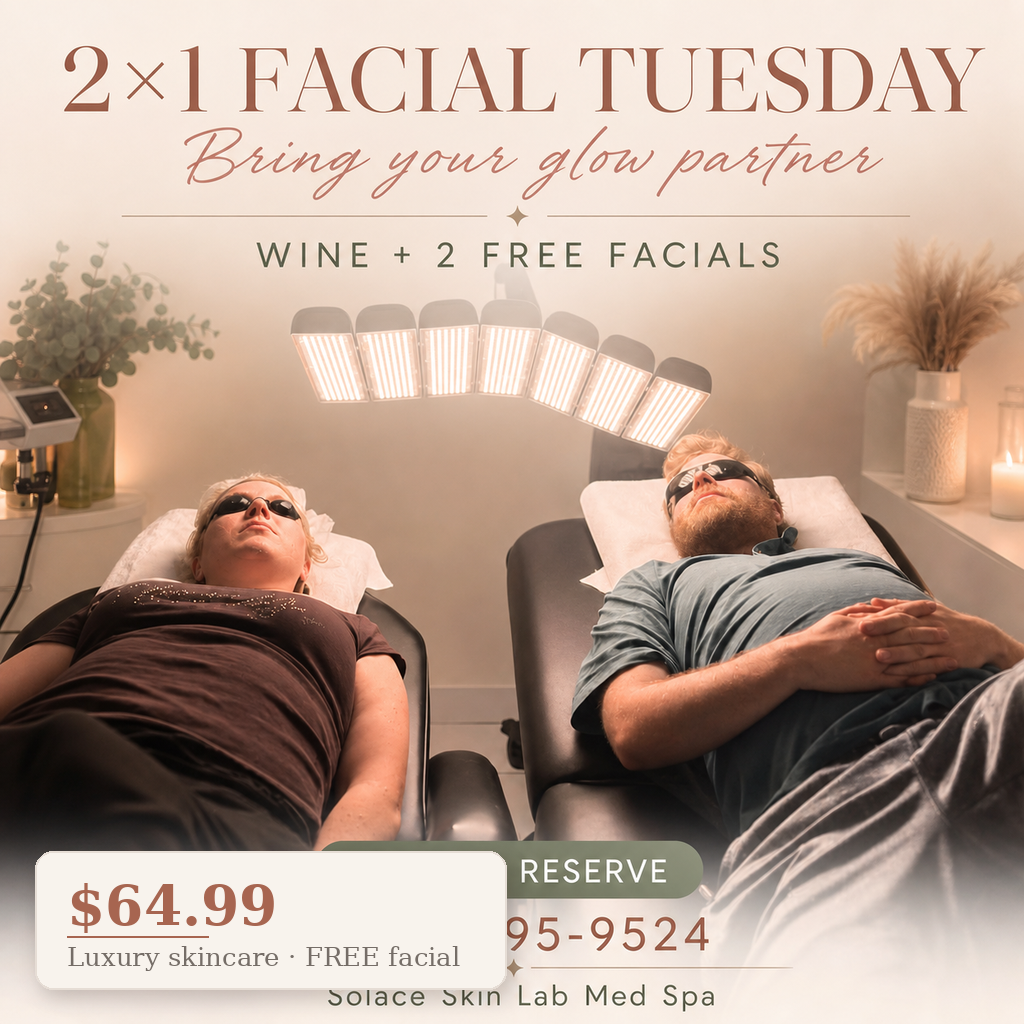
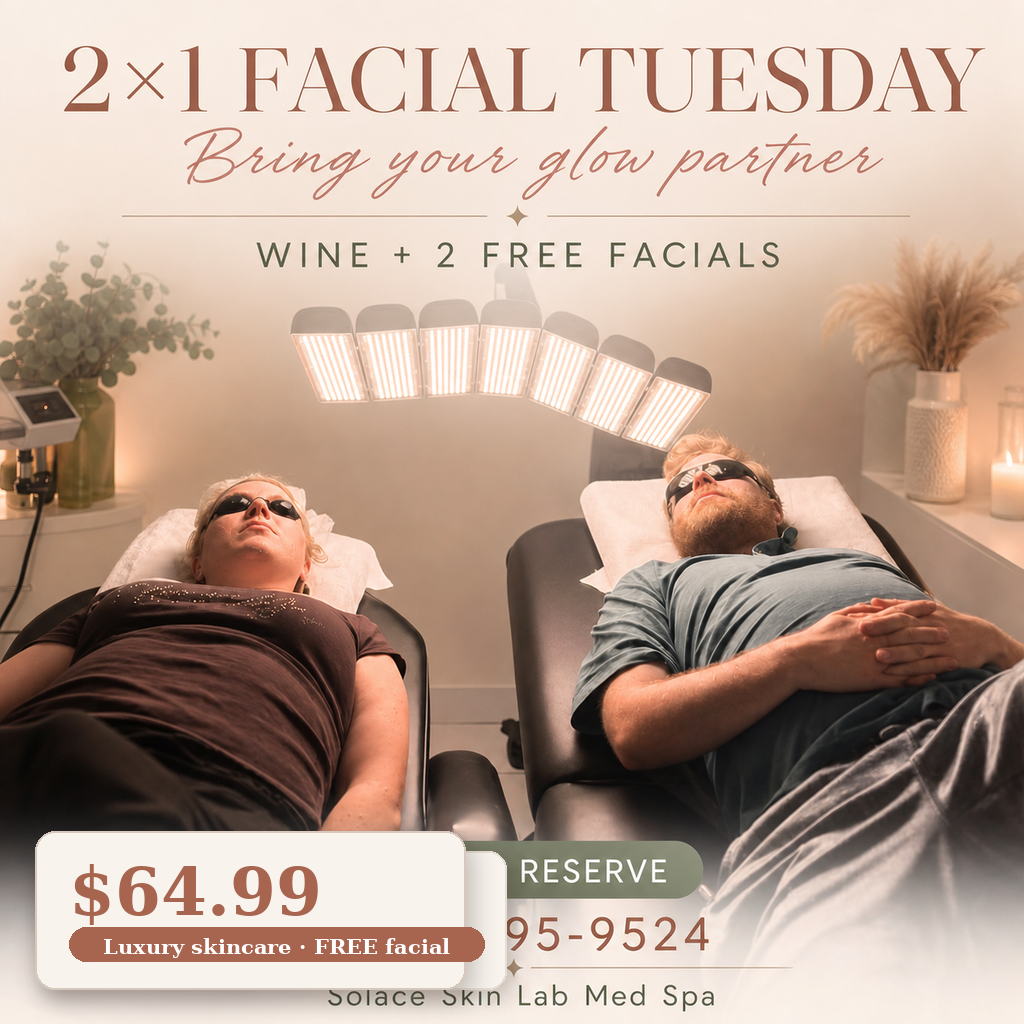
fix(solace-creatives): $64.99 badge high-contrast terracotta pill, no text overlap (days 5/12/19/26/28)

Changed region(s): [[0.0312, 0.8125, 0.4688, 1.0]]

diff --git a/add_price_badge.py b/add_price_badge.py
@@ -1,12 +1,11 @@
 #!/usr/bin/env python3
 """Composite an elegant on-brand $64.99 price badge onto selected Solace August V2 creatives.
 
-Target days: 5, 12, 19, 26 (Tuesday 2x1 promo) + 28 (Facial + LED).
-Badge text:
-  $64.99
-  Luxury skincare · FREE facial
-Placed bottom-left, ivory translucent card, rose (#a76550) accent rule, serif type.
-Does NOT cover faces or top text. Preserves original pixels elsewhere.
+Days: 5, 12, 19, 26 (Tuesday 2x1 promo) + 28 (Facial + LED).
+Badge:
+  $64.99            (rose #a76550, bold serif)
+  [ Luxury skincare · FREE facial ]   (terracotta pill, white text -> high contrast)
+Bottom-left, never overlapping phone/CTA. Ivory card + soft shadow.
 """
 import os
 from PIL import Image, ImageDraw, ImageFont, ImageFilter
@@ -15,79 +14,72 @@ BASE = os.path.dirname(os.path.abspath(__file__))
 IMG_DIR = os.path.join(BASE, "images", "august-2026-v2")
 DAYS = [5, 12, 19, 26, 28]
 
-# Brand palette
-IVORY = (248, 243, 237, 242)       # card fill, slightly translucent
-CARD_LINE = (230, 221, 213, 255)   # hairline border
-ROSE = (167, 101, 80, 255)         # #a76550 text accent
-INK = (52, 46, 42, 255)            # #342e2a dark text
-MUTED = (117, 109, 103, 255)       # #756d67 sub text
+IVORY = (248, 243, 237, 240)
+CARD_LINE = (214, 200, 188, 255)
+ROSE = (167, 101, 80, 255)
+TERRA = (167, 101, 80, 255)      # pill fill
+WHITE = (255, 255, 255, 255)
+INK = (52, 46, 42, 255)
 
 SERIF_B = "/usr/share/fonts/truetype/dejavu/DejaVuSerif-Bold.ttf"
-SERIF = "/usr/share/fonts/truetype/dejavu/DejaVuSerif.ttf"
-
-
-def font(path, size):
-    return ImageFont.truetype(path, size)
 
 
 def fit(draw, text, fnt, max_w):
-    # shrink to fit width
     while draw.textlength(text, font=fnt) > max_w and fnt.size > 8:
         fnt = ImageFont.truetype(fnt.path, fnt.size - 1)
     return fnt
 
 
-def add_badge(src_path, dst_path):
-    im = Image.open(src_path).convert("RGBA")
+def add_badge(src):
+    im = Image.open(src).convert("RGBA")
     W, H = im.size
     draw = ImageDraw.Draw(im, "RGBA")
 
-    # Badge sizing relative to image
     pad = int(W * 0.035)
-    card_w = int(W * 0.46)
-    card_h = int(H * 0.135)
+    card_w = int(W * 0.42)
+    card_h = int(H * 0.155)
     x0 = pad
     y0 = H - card_h - pad
     x1 = x0 + card_w
     y1 = y0 + card_h
 
-    # Soft shadow
+    # shadow
     shadow = Image.new("RGBA", (W, H), (0, 0, 0, 0))
     sd = ImageDraw.Draw(shadow)
-    sd.rounded_rectangle([x0 + 6, y0 + 8, x1 + 6, y1 + 8], radius=18, fill=(60, 40, 30, 60))
-    shadow = shadow.filter(ImageFilter.GaussianBlur(10))
+    sd.rounded_rectangle([x0 + 6, y0 + 10, x1 + 6, y1 + 10], radius=20, fill=(60, 40, 30, 70))
+    shadow = shadow.filter(ImageFilter.GaussianBlur(12))
     im.alpha_composite(shadow)
 
-    # Card
-    draw.rounded_rectangle([x0, y0, x1, y1], radius=18, fill=IVORY, outline=CARD_LINE, width=2)
+    # ivory card
+    draw.rounded_rectangle([x0, y0, x1, y1], radius=20, fill=IVORY, outline=CARD_LINE, width=2)
 
-    # Layout inside card
-    inner_pad = int(card_w * 0.07)
-    cx = x0 + inner_pad
-    price_sz = int(card_h * 0.40)
-    sub_sz = int(card_h * 0.20)
-    price_f = fit(draw, "$64.99", font(SERIF_B, price_sz), card_w - 2 * inner_pad)
-    sub_f = fit(draw, "Luxury skincare · FREE facial", font(SERIF, sub_sz), card_w - 2 * inner_pad)
-
-    # accent rule between price and sub
-    price_y = y0 + int(card_h * 0.16)
+    inner = int(card_w * 0.08)
+    cx = x0 + inner
+    price_f = fit(draw, "$64.99", ImageFont.truetype(SERIF_B, int(card_h * 0.42)), card_w - 2 * inner)
+    price_y = y0 + int(card_h * 0.14)
     draw.text((cx, price_y), "$64.99", font=price_f, fill=ROSE)
-    pb = draw.textbbox((cx, price_y), "$64.99", font=price_f)
-    sub_y = pb[3] + int(card_h * 0.06)
-    # small rose rule
-    rule_y = sub_y - int(card_h * 0.04)
-    draw.line([(cx, rule_y), (cx + int(card_w * 0.30), rule_y)], fill=ROSE, width=2)
-    draw.text((cx, sub_y), "Luxury skincare · FREE facial", font=sub_f, fill=MUTED)
 
-    im.convert("RGB").save(dst_path, "PNG")
-    print(f"wrote {os.path.basename(dst_path)} ({W}x{H})")
+    # terracotta pill with white sub-text (high contrast, on-brand)
+    sub = "Luxury skincare · FREE facial"
+    sub_f = fit(draw, sub, ImageFont.truetype(SERIF_B, int(card_h * 0.20)), card_w - 2 * inner)
+    sub_bbox = draw.textbbox((0, 0), sub, font=sub_f)
+    sub_w = sub_bbox[2] - sub_bbox[0]
+    sub_h = sub_bbox[3] - sub_bbox[1]
+    pill_pad_x = int(sub_w * 0.10)
+    pill_h = sub_h + int(sub_h * 0.7)
+    pill_y = y1 - int(card_h * 0.18) - pill_h
+    pill_x0 = cx
+    pill_x1 = cx + sub_w + 2 * pill_pad_x
+    draw.rounded_rectangle([pill_x0, pill_y, pill_x1, pill_y + pill_h], radius=pill_h // 2, fill=TERRA)
+    draw.text((pill_x0 + pill_pad_x, pill_y + (pill_h - sub_h) // 2), sub, font=sub_f, fill=WHITE)
+
+    im.convert("RGB").save(src, "PNG")
+    print(f"updated {os.path.basename(src)} ({W}x{H})")
 
 
 def main():
     for d in DAYS:
-        name = f"day{str(d).zfill(2)}.png"
-        src = os.path.join(IMG_DIR, name)
-        add_badge(src, src)  # overwrite in place
+        add_badge(os.path.join(IMG_DIR, f"day{str(d).zfill(2)}.png"))
     print("done")
 
 
